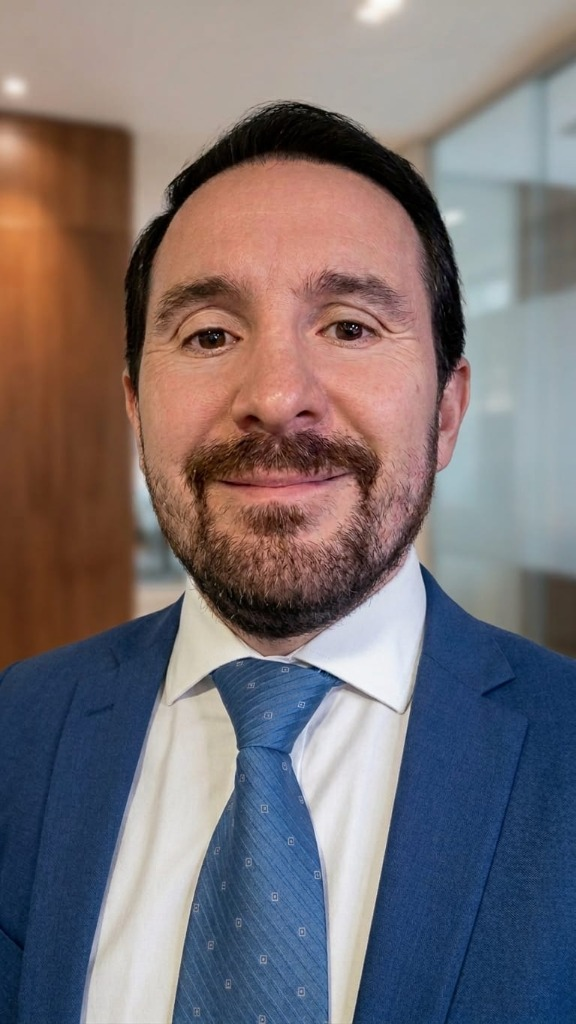
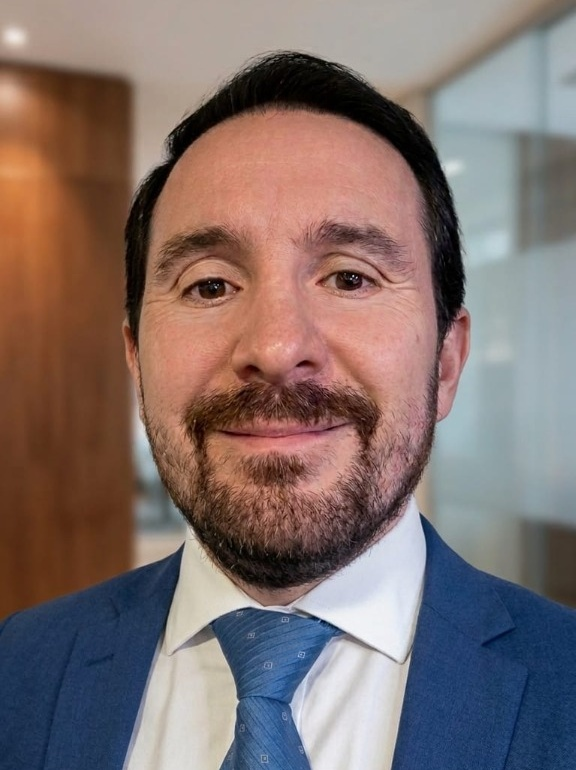
fix(bio): properly frame founder portrait with 4:5 executive aspect ratio

diff --git a/styles.css b/styles.css
@@ -3522,7 +3522,7 @@ a.contact-meta-row:hover .link-accent {
 .founder-avatar-frame {
   position: relative;
   width: 140px;
-  height: 140px;
+  height: 175px;
   border-radius: 20px;
   border: 2px solid var(--gold);
   overflow: hidden;
@@ -3535,7 +3535,7 @@ a.contact-meta-row:hover .link-accent {
   width: 100%;
   height: 100%;
   object-fit: cover;
-  object-position: center;
+  object-position: center 20%;
   display: block;
   transition: transform 0.4s ease;
 }
@@ -3665,9 +3665,10 @@ a.contact-meta-row:hover .link-accent {
     gap: 14px;
   }
   .founder-avatar-frame {
-    width: 125px;
-    height: 125px;
+    width: 130px;
+    height: 165px;
     border-radius: 18px;
+    margin: 0 auto;
   }
   .founder-role-badge {
     align-self: center;
@@ -3993,7 +3994,7 @@ a.contact-meta-row:hover .link-accent {
 
 .founder-avatar-frame {
   width: 140px;
-  height: 140px;
+  height: 175px;
   flex-shrink: 0;
   border-radius: 20px;
   overflow: hidden;
@@ -4006,7 +4007,7 @@ a.contact-meta-row:hover .link-accent {
   width: 100%;
   height: 100%;
   object-fit: cover;
-  object-position: center top;
+  object-position: center 20%;
   display: block;
   transition: transform 0.4s ease;
 }
@@ -4151,13 +4152,14 @@ a.contact-meta-row:hover .link-accent {
     min-height: auto;
   }
   .founder-card-header {
-    gap: 14px;
-    padding-bottom: 16px;
+    gap: 16px;
+    padding-bottom: 18px;
   }
   .founder-avatar-frame {
-    width: 110px;
-    height: 110px;
-    border-radius: 16px;
+    width: 130px;
+    height: 165px;
+    border-radius: 18px;
+    margin: 0 auto;
   }
   .founder-name {
     font-size: 1.2rem;

diff --git a/index.html b/index.html
@@ -58,7 +58,7 @@
 }
 </script>
 
-<link rel="stylesheet" href="styles.css?v=6">
+<link rel="stylesheet" href="styles.css?v=7">
 <link rel="stylesheet" href="preview.css?v=4">
 </head>
 <body>
@@ -916,7 +916,7 @@
       <div class="identity-image-card founder-profile-card">
         <div class="founder-card-header">
           <div class="founder-avatar-frame">
-            <img src="cristian-framed.jpg" alt="Cristian Manuel Gonçalves — Fundador de Estudio CG" class="founder-avatar-img" width="160" height="160">
+            <img src="cristian-framed.jpg" alt="Cristian Manuel Gonçalves — Fundador de Estudio CG" class="founder-avatar-img" width="140" height="175">
           </div>
           <div class="founder-title-block">
             <h3 class="founder-name">Cristian Manuel Gonçalves</h3>

diff --git a/preview.html b/preview.html
@@ -58,7 +58,7 @@
 }
 </script>
 
-<link rel="stylesheet" href="styles.css?v=6">
+<link rel="stylesheet" href="styles.css?v=7">
 <link rel="stylesheet" href="preview.css?v=4">
 </head>
 <body>
@@ -916,7 +916,7 @@
       <div class="identity-image-card founder-profile-card">
         <div class="founder-card-header">
           <div class="founder-avatar-frame">
-            <img src="cristian-framed.jpg" alt="Cristian Manuel Gonçalves — Fundador de Estudio CG" class="founder-avatar-img" width="160" height="160">
+            <img src="cristian-framed.jpg" alt="Cristian Manuel Gonçalves — Fundador de Estudio CG" class="founder-avatar-img" width="140" height="175">
           </div>
           <div class="founder-title-block">
             <h3 class="founder-name">Cristian Manuel Gonçalves</h3>
